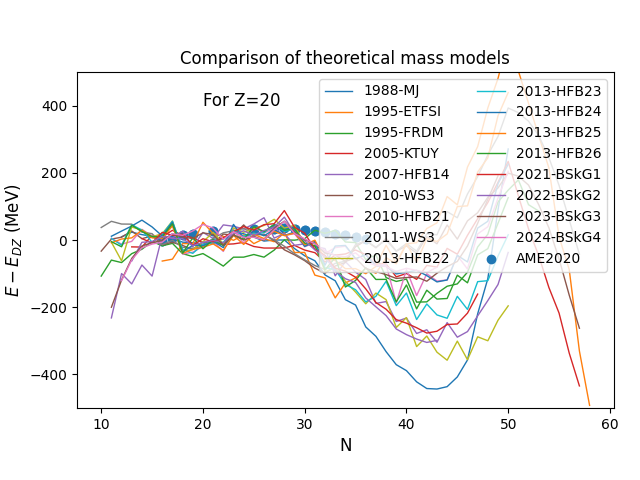
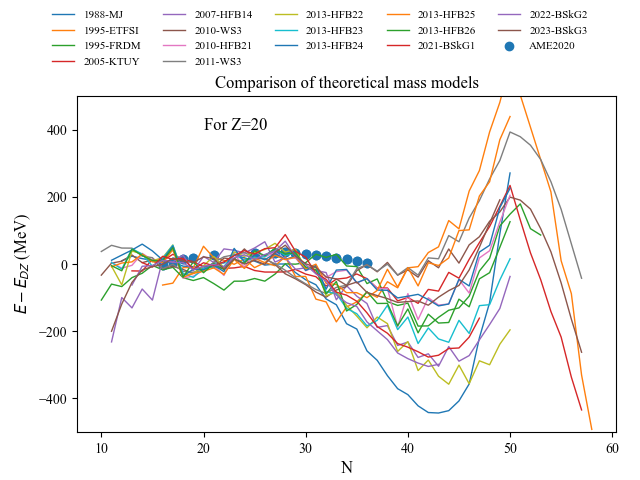
Fixed legends in plt_SetupNuclBETheo.py
Fixed legends in plt_SetupNuclBETheo.py. Legends are now placed outside of the plot frame

diff --git a/version1.0/nucleardatapy_samples/plots/plot_SetupNucBETheo.py b/version1.0/nucleardatapy_samples/plots/plot_SetupNucBETheo.py
@@ -4,6 +4,11 @@ import sys
 import numpy as np
 import matplotlib.pyplot as plt
 
+plt.rcParams["font.family"] = "Times New Roman"
+plt.rcParams['font.family'] = 'serif'
+plt.rcParams['mathtext.fontset'] = 'stixsans'
+plt.rcParams['font.serif'] = ['Times New Roman'] + plt.rcParams['font.serif']
+
 nucleardatapy_tk = os.getenv('NUCLEARDATAPY_TK')
 sys.path.insert(0, nucleardatapy_tk)
 
@@ -29,7 +34,7 @@ def plot_SetupNucBETheo_isotopes( tables, table_ref = '1995-DZ', Zref = 50 ):
     #
     fig, axs = plt.subplots(1,1)
     fig.tight_layout() # Or equivalently,  "plt.tight_layout()"
-    fig.subplots_adjust(left=0.12, bottom=0.15, right=None, top=0.85, wspace=0.3, hspace=0.3)
+    fig.subplots_adjust(left=0.12, bottom=0.1, right=None, top=0.80, wspace=0.3, hspace=0.3)
     #
     axs.set_title(r'Comparison of theoretical mass models',fontsize='12')
     axs.set_ylabel(r'$E-E_{DZ}$ (MeV)',fontsize='12')
@@ -51,7 +56,8 @@ def plot_SetupNucBETheo_isotopes( tables, table_ref = '1995-DZ', Zref = 50 ):
     N_diff, A_diff, BE_diff, BE_diff = mas.diff_exp( table_exp = 'AME', version_exp = '2020', Zref = Zref )
     axs.scatter( N_diff, BE_diff, label='AME2020' )
     #
-    axs.legend(loc='upper right',fontsize='10', ncol=2)
+    #axs.legend(loc='upper right',fontsize='10', ncol=2)
+    fig.legend(loc='upper center', fontsize='8', ncol=5, bbox_to_anchor=(0.5, 1.00), frameon=False)    
     #
     plt.savefig(pname)
     plt.close()
